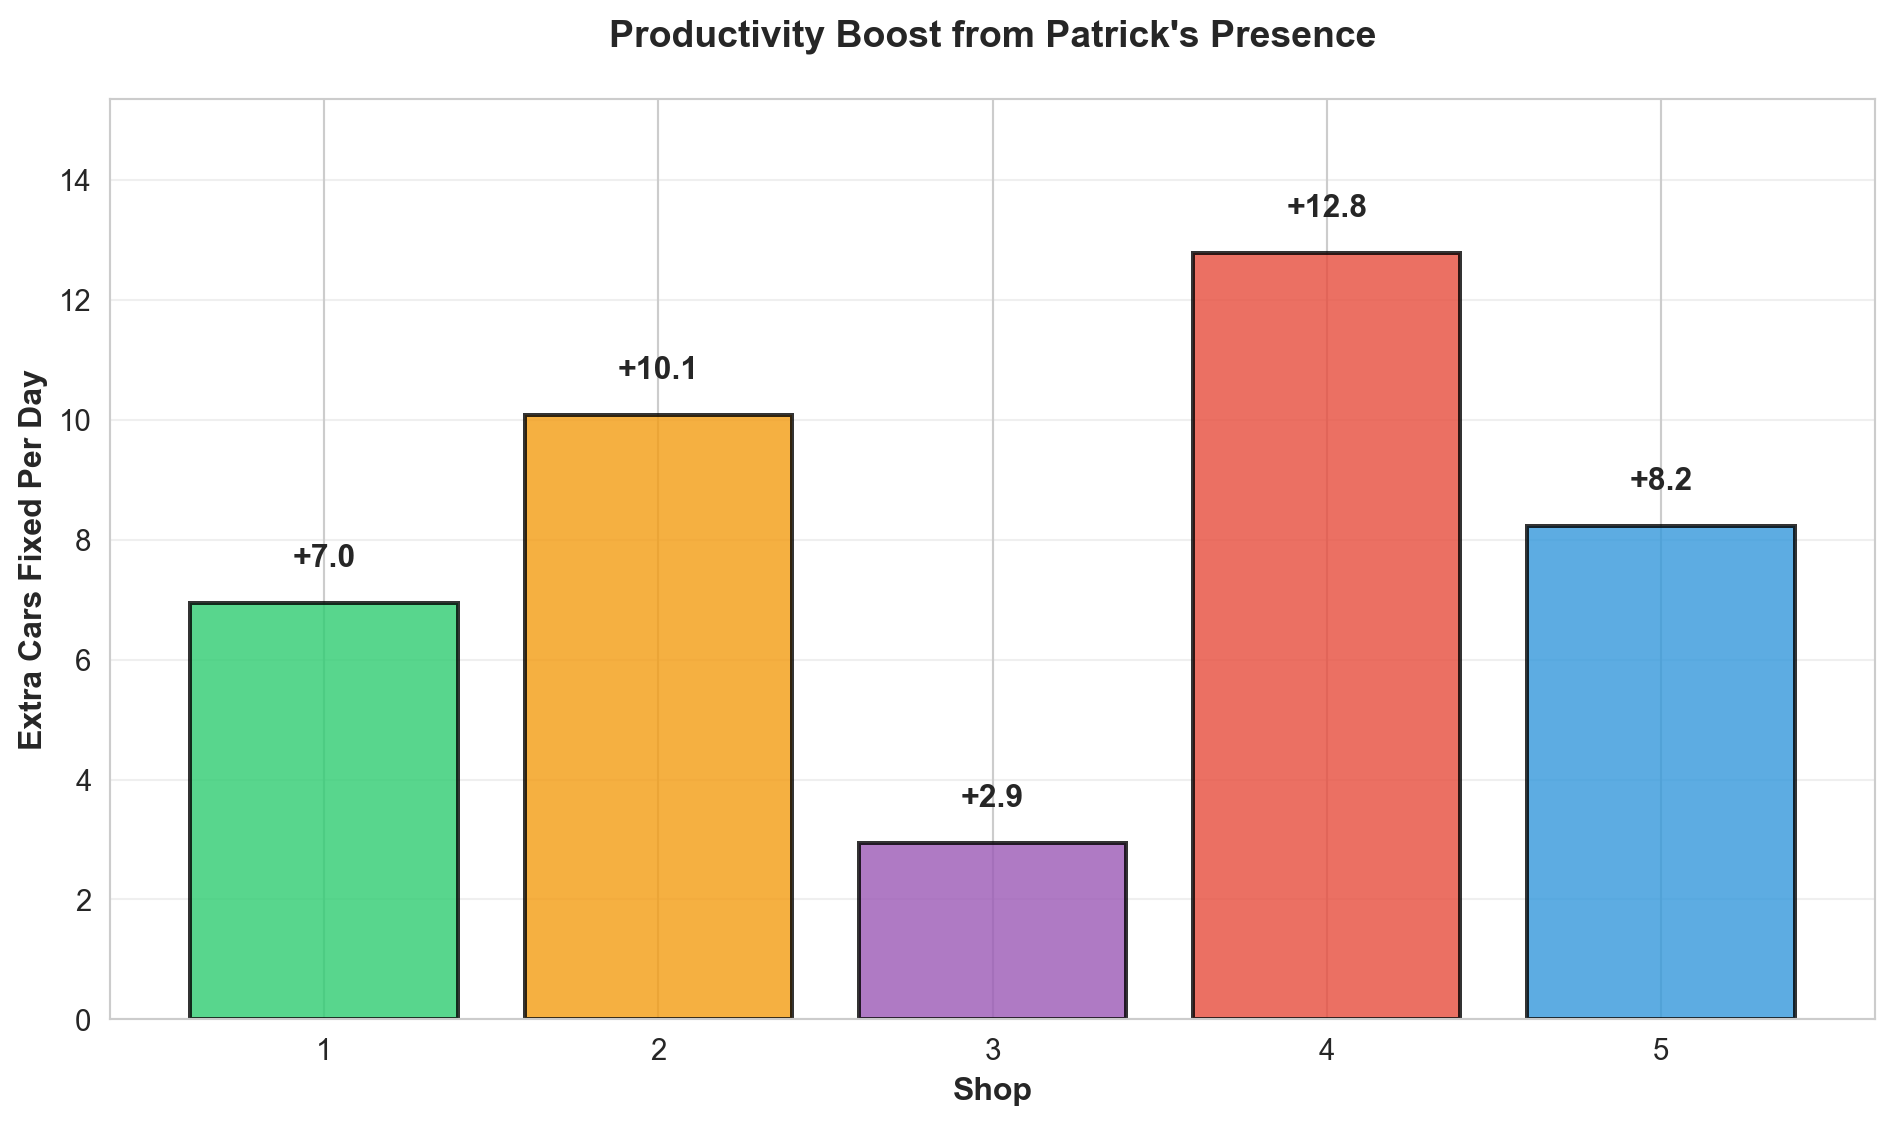
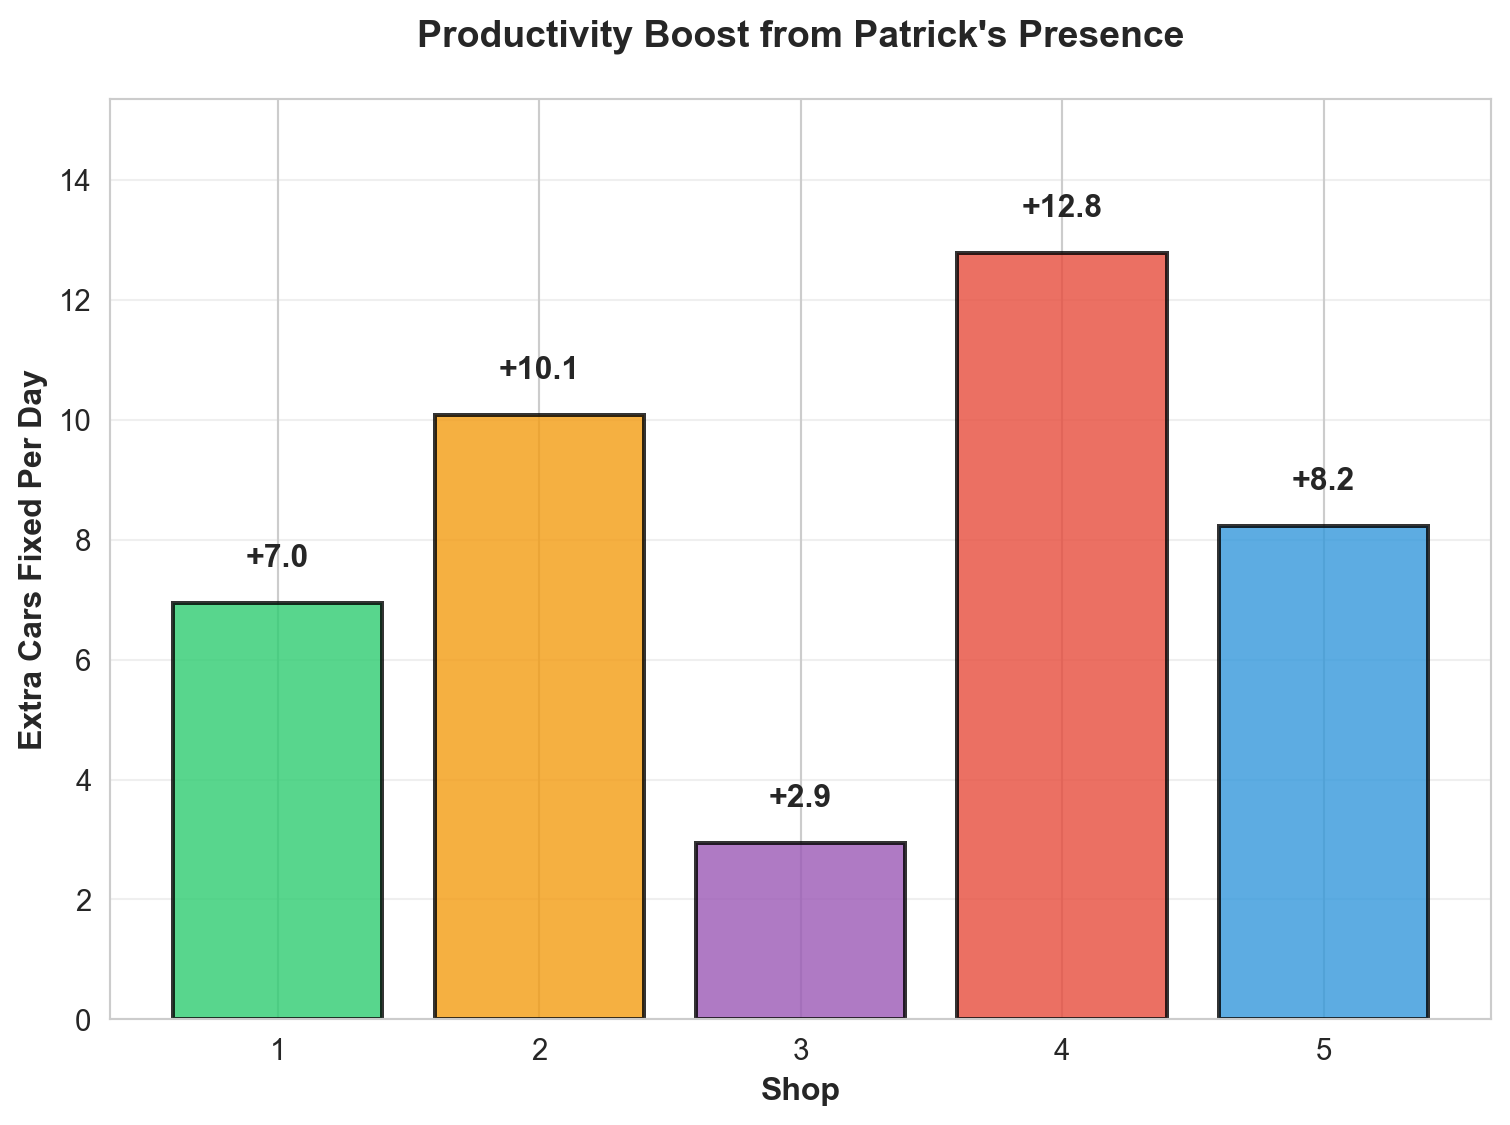
updated plot size to remove scroll bar

diff --git a/index.html b/index.html
@@ -121,7 +121,7 @@ Shop
 <div id="fig-gain-comparison" class="quarto-float quarto-figure quarto-figure-center anchored">
 <figure class="quarto-float quarto-float-fig figure">
 <div aria-describedby="fig-gain-comparison-caption-0ceaefa1-69ba-4598-a22c-09a6ac19f8ca">
-<img src="index_files/figure-html/fig-gain-comparison-output-1.png" width="947" height="563" class="figure-img">
+<img src="index_files/figure-html/fig-gain-comparison-output-1.png" width="755" height="563" class="figure-img">
 </div>
 <figcaption class="quarto-float-caption-bottom quarto-float-caption quarto-float-fig" id="fig-gain-comparison-caption-0ceaefa1-69ba-4598-a22c-09a6ac19f8ca">
 Figure&nbsp;2: Daily productivity gain when Patrick is present, by shop. Higher bars mean bigger impact.
@@ -158,7 +158,7 @@ Figure&nbsp;2: Daily productivity gain when Patrick is present, by shop. Higher 
 <div id="fig-confidence" class="quarto-float quarto-figure quarto-figure-center anchored">
 <figure class="quarto-float quarto-float-fig figure">
 <div aria-describedby="fig-confidence-caption-0ceaefa1-69ba-4598-a22c-09a6ac19f8ca">
-<img src="index_files/figure-html/fig-confidence-output-1.png" width="948" height="562" class="figure-img">
+<img src="index_files/figure-html/fig-confidence-output-1.png" width="756" height="562" class="figure-img">
 </div>
 <figcaption class="quarto-float-caption-bottom quarto-float-caption quarto-float-fig" id="fig-confidence-caption-0ceaefa1-69ba-4598-a22c-09a6ac19f8ca">
 Figure&nbsp;3: Range of expected productivity gains. The bars show the 95% confidence range—meaning we’re 95% confident the true impact falls within these ranges.
@@ -182,7 +182,7 @@ Figure&nbsp;3: Range of expected productivity gains. The bars show the 95% confi
 <div id="fig-projections" class="quarto-float quarto-figure quarto-figure-center anchored">
 <figure class="quarto-float quarto-float-fig figure">
 <div aria-describedby="fig-projections-caption-0ceaefa1-69ba-4598-a22c-09a6ac19f8ca">
-<img src="index_files/figure-html/fig-projections-output-1.png" width="1331" height="564" class="figure-img">
+<img src="index_files/figure-html/fig-projections-output-1.png" width="947" height="564" class="figure-img">
 </div>
 <figcaption class="quarto-float-caption-bottom quarto-float-caption quarto-float-fig" id="fig-projections-caption-0ceaefa1-69ba-4598-a22c-09a6ac19f8ca">
 Figure&nbsp;4: Projected annual impact of different scheduling strategies. Strategy A prioritizes high-impact shops (4, 2, 5), Strategy B is equal time at all shops, Strategy C is current pattern.
